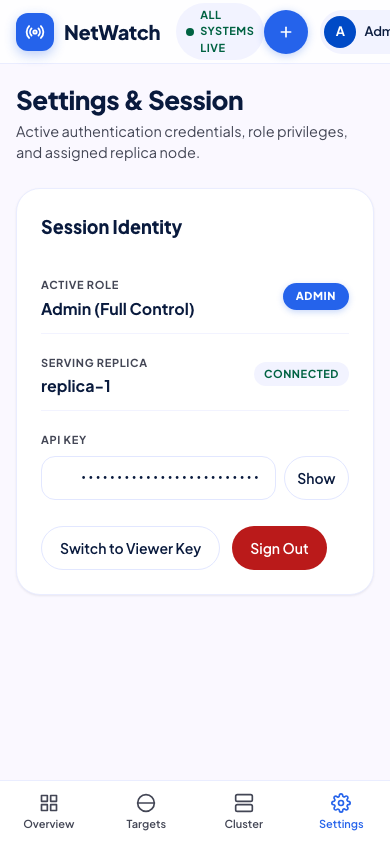
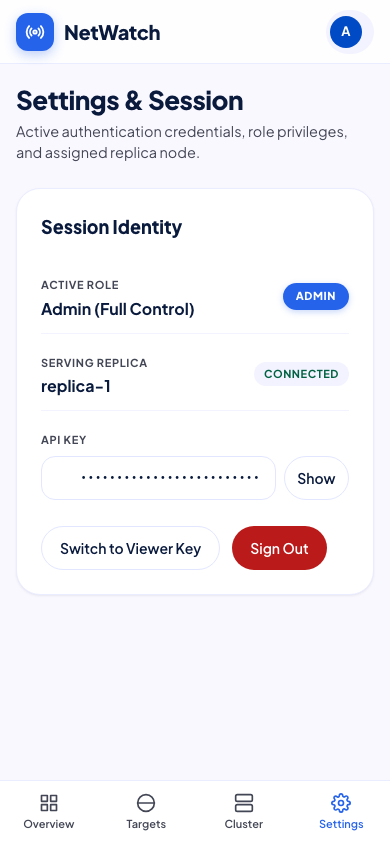
refactor: remove global status pill, update responsive styles, and improve robust target button selector in e2e tests

Changed region(s): [[0.4615, 0.0, 0.8, 0.0924], [0.8308, 0.0, 1.0, 0.0616]]

diff --git a/tests/test_e2e_playwright.py b/tests/test_e2e_playwright.py
@@ -100,10 +100,7 @@ async def test_admin_add_target_live_and_screenshots(ensure_cluster_running):
             await page.screenshot(path=str(SCREENS_DIR / f"targets_{suffix}.png"))
 
             # Open Add Target Bottom Sheet
-            if await page.is_visible("#openAddTargetBtn"):
-                await page.click("#openAddTargetBtn")
-            else:
-                await page.click("button:has-text('Add target')")
+            await page.locator("button:has-text('Add target'):visible").first.click()
             await page.wait_for_selector("#addTargetSheet:not(.hidden)")
             await page.wait_for_timeout(400)
             await page.screenshot(path=str(SCREENS_DIR / f"add_target_modal_{suffix}.png"))
